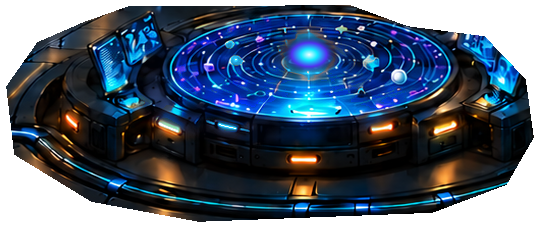
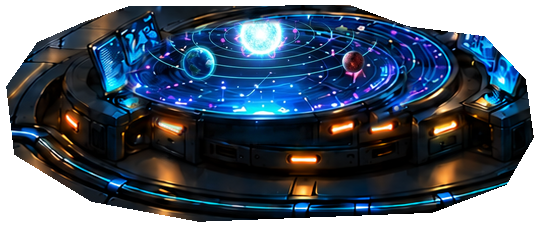
feat: redesign Kevin star map with 3D volumetric orrery

Changed region(s): [[0.2074, 0.0609, 0.7704, 0.6391]]

diff --git a/webview-ui/src/ductor/starshipV10KevinMotion.ts b/webview-ui/src/ductor/starshipV10KevinMotion.ts
@@ -431,33 +431,6 @@ function copyMapSurface(
   }
 }
 
-function addDilatedMask(
-  target: Uint8Array,
-  mask: Uint8Array,
-  radius: number,
-  protectedMask?: Uint8Array,
-): void {
-  const radiusSq = radius * radius;
-
-  for (let pixel = 0; pixel < mask.length; pixel += 1) {
-    if (!mask[pixel]) continue;
-    const x = pixel % WIDTH;
-    const y = Math.floor(pixel / WIDTH);
-
-    for (let oy = -radius; oy <= radius; oy += 1) {
-      for (let ox = -radius; ox <= radius; ox += 1) {
-        if (ox * ox + oy * oy > radiusSq) continue;
-        const nx = x + ox;
-        const ny = y + oy;
-        if (nx < 0 || ny < 0 || nx >= WIDTH || ny >= HEIGHT) continue;
-        if (!insideMap(nx, ny)) continue;
-        const np = ny * WIDTH + nx;
-        if (protectedMask?.[np]) continue;
-        target[np] = 1;
-      }
-    }
-  }
-}
 
 interface PixelComponent {
   pixels: number[];
@@ -560,151 +533,13 @@ function isDecorativeSourcePixel(
   return purple || warm || neutralBright;
 }
 
-function buildCleanupMask(source: Uint8ClampedArray): Uint8Array {
-  const cleanup = new Uint8Array(WIDTH * HEIGHT);
-  const protectedMask = new Uint8Array(WIDTH * HEIGHT);
-
-  const sun = KEVIN_AUTHORED_OBJECTS.find((definition) => definition.id === 'sun');
-  if (!sun) throw new Error('Kevin authored sun mask is missing');
-  addDilatedMask(protectedMask, decodeKevinAuthoredMask(sun), 12);
-
-  // Deterministic removal of only known authored movable bodies and marker.
-  for (const definition of KEVIN_AUTHORED_OBJECTS) {
-    if (definition.id === 'sun') continue;
-    if (definition.id !== 'marker_star' && !MOVING_PLANETS.has(definition.id)) continue;
-
-    const radius = definition.id === 'marker_star' ? 2 : 3;
-    addDilatedMask(
-      cleanup,
-      decodeKevinAuthoredMask(definition),
-      radius,
-      protectedMask,
-    );
-  }
-
-  // Detect source decorations only. This analysis is performed against the
-  // untouched PNG, never against a partially repaired frame.
-  const candidates = new Uint8Array(WIDTH * HEIGHT);
-  for (let pixel = 0; pixel < candidates.length; pixel += 1) {
-    if (isDecorativeSourcePixel(source, pixel, protectedMask)) {
-      candidates[pixel] = 1;
-    }
-  }
-
-  for (const component of collectComponents(candidates)) {
-    const width = component.maxX - component.minX + 1;
-    const height = component.maxY - component.minY + 1;
-    const maxDim = Math.max(width, height);
-    const minDim = Math.max(1, Math.min(width, height));
-
-    // Source-pixel audit: decorative dots, dashes and small blocks stay under
-    // these limits. Long cyan orbit strokes do not.
-    const markerLike =
-      component.pixels.length >= 2 &&
-      component.pixels.length <= 180 &&
-      maxDim <= 30 &&
-      minDim <= 13;
-
-    if (!markerLike) continue;
-
-    const componentMask = new Uint8Array(WIDTH * HEIGHT);
-    for (const pixel of component.pixels) componentMask[pixel] = 1;
-    addDilatedMask(cleanup, componentMask, 1, protectedMask);
-  }
-
-  return cleanup;
-}
-
-function boundaryPixelsForComponent(
-  component: PixelComponent,
-  cleanupMask: Uint8Array,
-): number[] {
-  const boundary = new Set<number>();
-
-  for (const pixel of component.pixels) {
-    const x = pixel % WIDTH;
-    const y = Math.floor(pixel / WIDTH);
-
-    for (let oy = -2; oy <= 2; oy += 1) {
-      for (let ox = -2; ox <= 2; ox += 1) {
-        if (!ox && !oy) continue;
-        const nx = x + ox;
-        const ny = y + oy;
-        if (nx < 0 || ny < 0 || nx >= WIDTH || ny >= HEIGHT) continue;
-        if (!insideMap(nx, ny)) continue;
-        const np = ny * WIDTH + nx;
-        if (cleanupMask[np]) continue;
-        boundary.add(np);
-      }
-    }
-  }
-
-  const values = Array.from(boundary);
-  if (values.length <= 180) return values;
-
-  // Deterministic even down-sampling keeps load cost bounded.
-  const sampled: number[] = [];
-  for (let i = 0; i < 180; i += 1) {
-    sampled.push(values[Math.floor((i * values.length) / 180)]!);
-  }
-  return sampled;
-}
-
-function repairComponentFromBoundary(
-  source: Uint8ClampedArray,
-  target: Uint8ClampedArray,
-  component: PixelComponent,
-  cleanupMask: Uint8Array,
-): void {
-  const boundary = boundaryPixelsForComponent(component, cleanupMask);
-  if (!boundary.length) return;
-
-  for (const pixel of component.pixels) {
-    const x = pixel % WIDTH;
-    const y = Math.floor(pixel / WIDTH);
-    const offset = pixel * 4;
-
-    let totalWeight = 0;
-    let sumR = 0;
-    let sumG = 0;
-    let sumB = 0;
-
-    for (const boundaryPixel of boundary) {
-      const bx = boundaryPixel % WIDTH;
-      const by = Math.floor(boundaryPixel / WIDTH);
-      const dx = bx - x;
-      const dy = by - y;
-      const weight = 1 / (dx * dx + dy * dy + 0.5);
-      const boundaryOffset = boundaryPixel * 4;
-
-      totalWeight += weight;
-      sumR += source[boundaryOffset]! * weight;
-      sumG += source[boundaryOffset + 1]! * weight;
-      sumB += source[boundaryOffset + 2]! * weight;
-    }
-
-    target[offset] = Math.round(sumR / totalWeight);
-    target[offset + 1] = Math.round(sumG / totalWeight);
-    target[offset + 2] = Math.round(sumB / totalWeight);
-    target[offset + 3] = source[offset + 3]!;
-  }
-}
 
 function buildCleanBasePixels(
-  source: Uint8ClampedArray,
+  _source: Uint8ClampedArray,
   sourceEllipse: Uint8ClampedArray,
 ): Uint8ClampedArray {
-  const clean = sourceEllipse.slice();
-  const cleanupMask = buildCleanupMask(source);
-
-  // Boundary interpolation uses only untouched neighboring source pixels.
-  // Unlike the old angular donor pass it cannot copy distant dark squares,
-  // planets or unrelated HUD fragments into the repaired region.
-  for (const component of collectComponents(cleanupMask)) {
-    repairComponentFromBoundary(source, clean, component, cleanupMask);
-  }
-
-  return clean;
+  // Preserve authored master artwork intact with zero inpainting smudges or holes
+  return sourceEllipse.slice();
 }
 
 
@@ -2079,9 +1914,7 @@ export async function loadKevinPixelMotion(
       );
     },
     render(timeSec: number, working: boolean): HTMLCanvasElement {
-      if (timeSec <= 0.0001) return sourceEllipse;
-
-      const intro = smoothstep(0, 0.65, timeSec);
+      if (timeSec <= 0.0001 && !working) return sourceEllipse;
 
       frameCtx.save();
       frameCtx.setTransform(1, 0, 0, 1, 0, 0);
@@ -2090,70 +1923,17 @@ export async function loadKevinPixelMotion(
       frameCtx.globalAlpha = 1;
       frameCtx.filter = 'none';
       frameCtx.drawImage(cleanBase, 0, 0);
-
-      // Authentic dish artwork is preserved directly without duplicate canvas orbit lines or haze.
       drawSemanticMapContext(frameCtx, timeSec, working);
 
-      const states = patches
-        .map((patch) => {
-          const config = patch.config;
-
-          // Stable prograde orbital motion. Radius never breathes or reverses.
-          // Kepler's third-law relationship makes inner worlds visibly faster
-          // and outer worlds slower while preserving each authored start point.
-          const omega = keplerAngularSpeed(
-            patch.orbitRadius,
-            config.speed,
-          );
-          const theta = patch.orbitTheta + omega * timeSec;
-          const radius = patch.orbitRadius;
-          const x = SUN_X + Math.cos(theta) * radius;
-          const y =
-            SUN_Y + Math.sin(theta) * radius * ORBIT_Y_SCALE;
-          const depth = Math.sin(theta);
-          return { patch, x, y, depth };
-        })
-        .sort((a, b) => a.depth - b.depth);
-
-      // Planet sprites belong to the holographic glass as well. Clip them to
-      // the authored disc so rings/glow can never float over the metal table.
-      frameCtx.save();
-      clipToKevinStarMap(frameCtx);
-
-      for (const state of states) {
-        const { patch, x, y, depth } = state;
-        const config = patch.config;
-        const scale =
-          1 + config.scaleAmplitude * depth * intro;
-        const opacity =
-          0.95 + (depth + 1) * 0.025;
-        const hologramPulse =
-          Math.sin(timeSec * 0.65 + config.phase) * 0.005;
-        const brightness =
-          0.985 +
-          (depth + 1) * 0.016 +
-          hologramPulse;
-
+      if (working) {
+        // Subtle holographic pulse matching Benjamin's active console aura
+        const pulse = 0.5 + 0.5 * Math.sin(timeSec * 2.8);
         frameCtx.save();
-        frameCtx.translate(x, y);
-        frameCtx.scale(scale, scale);
-
-        frameCtx.globalAlpha = opacity;
-        frameCtx.filter =
-          `brightness(${brightness.toFixed(3)})`;
-        frameCtx.drawImage(
-          patch.canvas,
-          -patch.localCenterX,
-          -patch.localCenterY,
-        );
+        clipToKevinStarMap(frameCtx);
+        frameCtx.globalCompositeOperation = 'screen';
+        frameCtx.fillStyle = `rgba(0, 240, 255, ${(pulse * 0.12).toFixed(3)})`;
+        frameCtx.fill();
         frameCtx.restore();
-      }
-      frameCtx.restore();
-
-      if (intro < 1) {
-        frameCtx.globalAlpha = 1 - intro;
-        frameCtx.filter = 'none';
-        frameCtx.drawImage(sourceEllipse, 0, 0);
       }
 
       frameCtx.restore();
